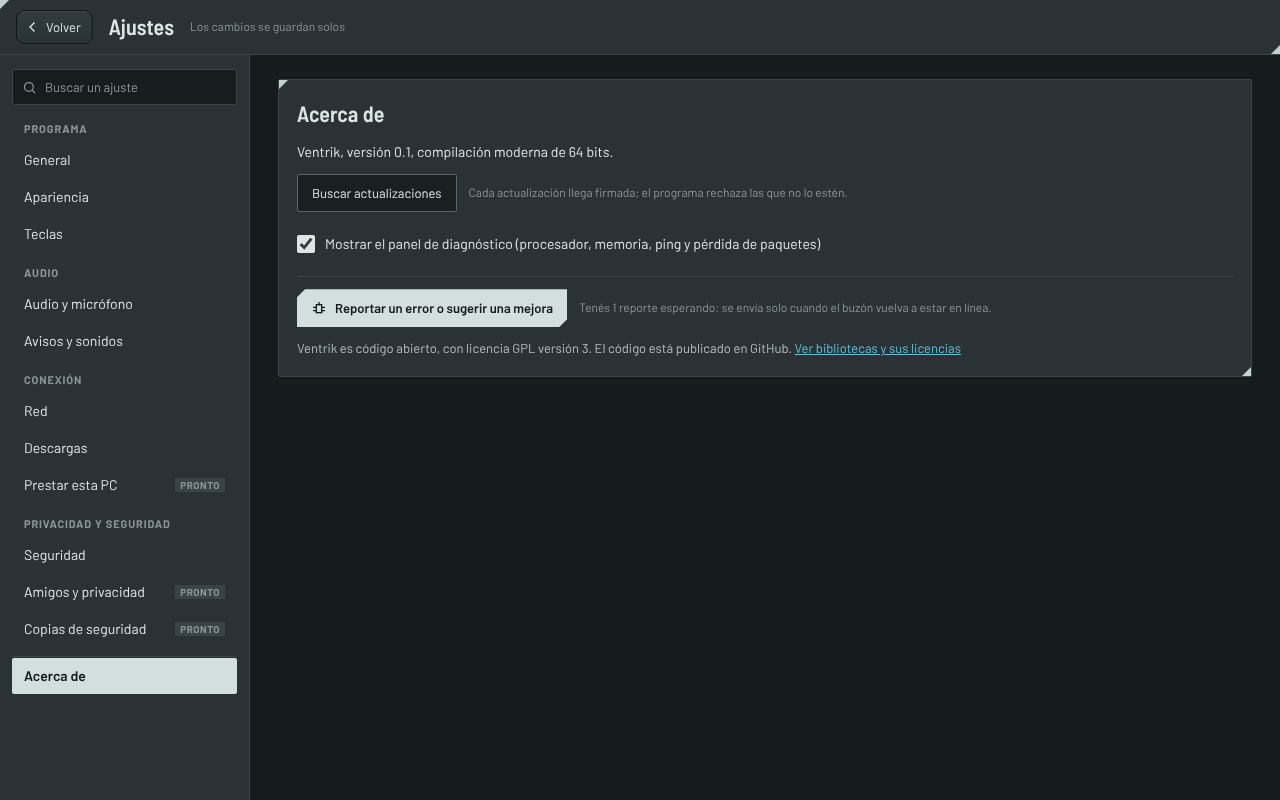
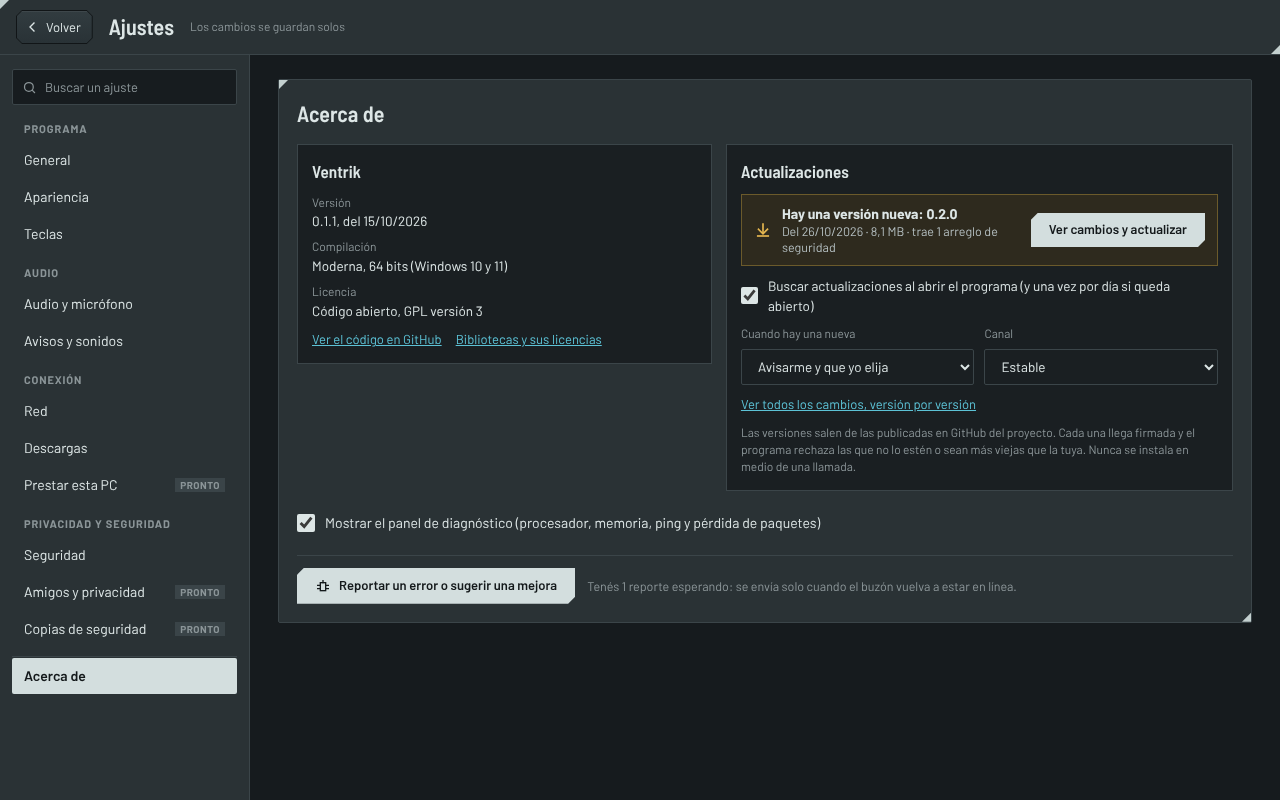
Diseño: actualizaciones desde GitHub, con lista de cambios
Diseño del dueño para la etapa 11: un manifiesto firmado en cada versión
publicada en GitHub (estable y pruebas), con los cambios armados desde
CHANGELOG.md, la ventana de la versión nueva, instalar sin cortar
llamadas y volver atrás sola si la nueva no arranca. Firma con ECDSA
P-256 de Mbed TLS (decisión del dueño). Capturas nuevas de
Actualizaciones, Acerca de y el pie de Inicio.

diff --git a/docs/diseno.md b/docs/diseno.md
@@ -690,8 +690,74 @@ C++ no protege la memoria por sí solo, así que las reglas de escritura y las p
 - **Revisión automática:** las advertencias del compilador se tratan como errores en el código propio (las bibliotecas de terceros se compilan tal como vienen, sin modificarlas), y se usa análisis estático (`/analyze`, clang-tidy).
 - **Fuzzing:** un programa le tira millones de paquetes y archivos rotos al código hasta encontrar dónde falla. Corre en una compilación de prueba con AddressSanitizer, que detecta cada error de memoria en el momento.
 - **Protecciones del compilador:** `/GS`, `/NXCOMPAT`, `/DYNAMICBASE`, `/guard:cf` y `/SAFESEH`. /SAFESEH existe solo en 32 bits, así que va únicamente en la versión clásica. XP SP3 aprovecha /GS, /SAFESEH y DEP, que la versión clásica activa al arrancar con SetProcessDEPPolicy para no depender de la configuración de Windows. XP no tiene ASLR, que llegó con Vista, ni CFG, que llegó con Windows 8.1. Por eso hay una versión moderna aparte (ver "Tecnología elegida").
-- **Actualizaciones firmadas:** cada actualización va firmada, y el programa trae la clave pública adentro y rechaza lo que no esté firmado. Firmar el .exe para Windows (Authenticode) suele requerir un certificado pago; como el proyecto es de código abierto, se puede pedir gratis a [SignPath Foundation](https://signpath.org/) (ver "Viabilidad como programa gratuito").
+- **Actualizaciones firmadas:** cada actualización va firmada, y el programa trae la clave pública adentro y rechaza lo que no esté firmado. Firmar el .exe para Windows (Authenticode) suele requerir un certificado pago; como el proyecto es de código abierto, se puede pedir gratis a [SignPath Foundation](https://signpath.org/) (ver "Viabilidad como programa gratuito"). Cómo se buscan, se muestran y se instalan: "Actualizaciones firmadas" más abajo.
 - **Bibliotecas:** versiones fijas, seguimiento de avisos de seguridad y actualización rápida. Las de imágenes ya tuvieron fallas graves: libwebp, una usada en ataques reales en 2023 ([CVE-2023-4863](https://db.gcve.eu/cve/CVE-2023-4863)), y stb\_image, varias al leer GIF ([CVE-2023-45661](https://ubuntu.com/security/CVE-2023-45661)).
+
+### Actualizaciones firmadas
+
+Diseño del dueño del 2026-10-26, para la etapa 11. Capturas: docs/pantallas/Actualizaciones*.png, Ajustes-acerca.png, Ajustes-acerca-al-dia.png, Inicio-actualizacion.png e InicioVisual-actualizacion.png (en Inicio.png e InicioVisual.png solo cambia el pie).
+
+- **De dónde saca las versiones:**
+  - **Nada de la API de GitHub para revisar:** sin cuenta, api.github.com deja 60 pedidos por hora por IP, y con CGNAT muchos usuarios comparten una IP.
+  - **Un manifiesto firmado,** subido como archivo de cada versión publicada en GitHub:
+    - estable: `https://github.com/<dueño>/<repo>/releases/latest/download/manifest.json` ("latest" es la última publicada que no es borrador ni pre-release);
+    - pruebas: `https://github.com/<dueño>/<repo>/releases/download/canal-pruebas/manifest.json` (`canal-pruebas` es un pre-release fijo; cada versión de prueba reemplaza su manifiesto).
+  - **Redirecciones:** GitHub responde 302 hacia su dominio de descargas; el programa las sigue.
+  - **XP:** GitHub pide TLS 1.2 o más nuevo, que XP no trae. La clásica usa Mbed TLS, que ya está en el proyecto y trae TLS 1.2. Lo que falta es la lista de autoridades raíz dentro del programa, que también pide la etapa 14 para hablar con Google: queda pendiente para esa etapa.
+- **El manifiesto:**
+  - **Firma:** con la llave del proyecto, en **ECDSA P-256 con Mbed TLS**; la clave pública viene adentro del programa. El diseño del dueño pedía Ed25519, pero Mbed TLS no lo trae y el proyecto usa solo Mbed TLS para el cifrado: sumar otra biblioteca necesita su permiso. Es la misma curva que la firma de llaves de seguridad.
+  - **Se descarta** si la firma no vale, si la versión es más vieja que la instalada (nadie te puede hacer bajar de versión) o si la fecha es más vieja que la del último manifiesto aceptado.
+  - **Campos:**
+    - versión y fecha;
+    - por compilación (moderna de 64 bits y clásica de 32 bits): dirección del archivo, tamaño y SHA-256;
+    - `seguridad`: si trae algún arreglo de seguridad;
+    - `minima`: la versión más vieja que todavía puede conectarse a servidores de esta versión;
+    - `ultima_para_xp`: si existe, la clásica se queda en esa versión y deja de ofrecer las siguientes;
+    - `destacados`: de 2 a 4 frases cortas para "Novedades";
+    - `cambios`: los de esta versión y las anteriores (por lo menos las últimas 20), cada una con su versión y fecha.
+  - **Los cambios van en categorías fijas:** Seguridad, Nuevo, Arreglos, Cambios y Quitado. Escritos para el usuario: sin nombres de funciones ni de archivos.
+  - **Salen de CHANGELOG.md,** una sección por versión con esas categorías. El script de publicación arma desde ahí el texto de la versión en GitHub y el campo `cambios`, y firma el manifiesto.
+  - **El programa muestra siempre los cambios del manifiesto firmado,** nunca la página de GitHub.
+- **Cuándo revisa:**
+  - al abrir el programa, después de que aparece la ventana, sin demorar el arranque;
+  - si queda abierto, una vez cada 24 horas (un temporizador más, que se justifica en docs/estado.md al programarlo);
+  - a mano, con "Buscar actualizaciones" en Ajustes → Acerca de;
+  - sin conexión: 10 segundos de límite y ningún error a la vista; el pie de Inicio dice "No se pudo revisar";
+  - se apaga con "Buscar actualizaciones al abrir el programa" (activado de entrada);
+  - privacidad: GitHub ve la IP y la versión, nada más; no se manda ninguna identificación. La ayuda lo aclara.
+- **Qué ve el usuario:**
+  - **Ajustes → Acerca de** (Ajustes-acerca.png y -al-dia.png): el aviso de la versión nueva o "Estás al día · revisado hoy a las 23:10" con "Buscar actualizaciones"; "Buscar al abrir"; "Cuando hay una nueva" (Avisarme y que yo elija / Instalarla al cerrar el programa / Solo los arreglos de seguridad, sin preguntar); Canal (Estable / Pruebas); "Ver todos los cambios".
+  - **El pie de Inicio** (Inicio-actualizacion.png e InicioVisual-actualizacion.png): "Versión 0.2.0 disponible · Ver cambios" en amarillo, que abre la ventana de la actualización.
+  - **La ventana de la versión nueva** (Actualizaciones.png): los cambios por categoría, las versiones que te saltaste ("También trae la 0.1.2"), "Ver en GitHub" y Actualizar ahora / Al cerrar el programa / Más tarde.
+    - En un canal de voz (Actualizaciones-en-llamada.png), el botón principal pasa a "Actualizar al salir del canal": nunca se corta una llamada.
+    - Bajando (Actualizaciones-bajando.png): barra, pasos (versión, bajada, firma y huella, reinicio) y "Seguir en segundo plano".
+    - Al volver a abrirse (Actualizaciones-novedades.png): "Novedades de la 0.2.0", con los `destacados`. Se puede apagar.
+    - Firma inválida (Actualizaciones-error.png): se borra el archivo y se sigue con la versión actual.
+  - **Cuándo se abre sola:** con "Avisarme", una vez por versión, al encontrarla; si trae un arreglo de seguridad, en cada arranque hasta que se instale; si no, quedan el pie de Inicio y Acerca de.
+  - **Debajo de la `minima`:** la ventana no tiene "Más tarde", y explica que los servidores nuevos no la van a aceptar; con servidores viejos se sigue usando. El rechazo ya existe hoy en la negociación del protocolo (un programa viejo recibe "versión vieja", ver "Dos versiones que se entienden"); en la etapa 11 suma el botón que abre la ventana de la actualización ("Actualizá Ventrik para entrar").
+- **Cómo se instala:**
+  1. Baja la compilación de esa PC (moderna o clásica) a una carpeta temporal del programa, en segundo plano, con prioridad baja y tope de velocidad (docs/optimizacion.md).
+  2. Comprueba el SHA-256 del manifiesto firmado; si no coincide, borra el archivo y muestra el error. El .exe además tiene que traer la firma Authenticode del proyecto (SignPath).
+  3. Espera el momento: nunca en medio de una llamada ni de una transferencia de archivos.
+  4. **El ayudante** hace el reemplazo: Ventrik se cierra, el ayudante espera a que termine el proceso, guarda la versión actual en `anterior\`, pone la nueva y la abre con `--recien-actualizado`. Vuelve a comprobar la firma él mismo, sin confiar en lo que le pasa el programa. Para cumplir "un solo .exe", el ayudante es el mismo ventrik.exe copiado a la carpeta temporal y abierto con `--actualizar`, no un `ventrik-actualizar.exe` aparte.
+  5. **Vuelta atrás automática:** si la versión nueva no avisa "arranqué bien" (ventana principal abierta y configuración leída) en 60 segundos, o se cierra con error dos veces seguidas, el ayudante restaura `anterior\` y muestra por qué.
+  6. Al volver a abrirse, entra solo al servidor donde estaba y muestra las Novedades.
+  7. **Permisos de Windows:** en una carpeta del usuario no hace falta pedir permiso; en "Archivos de programa", pide permiso (UAC) solo para el reemplazo. **Hoy no hay instalador:** el .exe se copia a mano (por ejemplo, `build\para_xp`) y los datos van en %APPDATA%\Ventrik. Los instaladores llegan en la etapa 11; la propuesta es que instalen en una carpeta del usuario, así actualizar no pide permiso (lo decide el dueño en esa etapa).
+  8. **La configuración, los chats y los datos locales no se tocan.** Si una versión cambia el formato de la base, la migración hace una copia antes y la vuelta atrás la restaura.
+- **El servidor y las PCs de nodos:**
+  - el programa del servidor revisa igual, al arrancar y una vez por día;
+  - el admin elige en Configuración del servidor: avisarme, instalar cuando no haya nadie conectado o instalar en un horario;
+  - con varias PCs (nodos, etapa 13), se actualizan de a una: cada nodo vuelve a entrar y recién ahí sigue el siguiente, así el servidor nunca se cae entero;
+  - un cliente y un servidor de versiones distintas se entienden mientras los dos estén por encima de la `minima` del otro;
+  - a un cliente demasiado viejo el servidor le responde "Actualizá Ventrik para entrar", con un botón que abre la ventana de actualización.
+- **Pruebas:**
+  - manifiestos rechazados: firma alterada, versión más vieja que la instalada y fecha anterior a la última aceptada;
+  - un archivo con un byte cambiado se rechaza y se borra; una descarga cortada se retoma o se reinicia, nunca se instala incompleta;
+  - una versión que se cierra al arrancar vuelve sola a la anterior, con los datos intactos;
+  - en un canal de voz, "Actualizar ahora" espera a que salgas;
+  - sin conexión, el programa arranca igual de rápido y sin errores;
+  - en XP, la clásica baja e instala desde GitHub (TLS 1.2 con Mbed TLS);
+  - con nodos (etapa 13), la actualización de a una no corta a nadie.
 
 ### Capas extra y niveles de seguridad
 

diff --git a/docs/plan.md b/docs/plan.md
@@ -114,7 +114,7 @@ Cada una empieza en una sesión nueva: se divide en pasos chicos, cada uno con s
 | 8. Servidores grandes | Simulador de 512 usuarios; tope de voces; calidad dinámica; capacidad estimada; canal escenario; modo canal grande; chat lento; reconexiones escalonadas; la subida del servidor repartida en un solo lugar por prioridades (primero la voz) | Hostear, paso 3 (Capacidad y voz) | El informe del simulador muestra cómo baja la calidad con poca subida |
 | 9. Moderación | Roles y permisos por rol y canal (también para susurrar); baneos con huella del equipo; barreras de entrada; el permiso "Compartir pantalla" en la lista, apagado y "en desarrollo" | Panel de administración | Banear una prueba y ver que vuelve silenciada |
 | 10. Modo Visual (delicada) | Perfiles y tarjeta con fondo animado, efecto por fuera y animación al abrirse; marcos de avatar y editor de efectos con su código para compartir (validado y con fuzzing); Inicio en Visual; personalización (icono animado, fondo del chat, color del tema), GIFs y stickers; imágenes en el proceso de medios (proceso aparte, con fuzzing, listo para sumarle video); captura en los reportes; en el panel de audio, el medidor con divisiones (con la marca por voz), hasta 30 imágenes por segundo (en Rendimiento queda la barra fija) | Visual, Inicio en Visual, Perfil, Editor de efectos, Personalizar servidor | Cambiar de modo y ver que en Rendimiento no se descarga nada |
-| 11. Cierre | Modo servidor limitado; idiomas; el resto de Ajustes; instaladores con ClamAV; firma con SignPath; actualizaciones firmadas; pruebas de 8 horas | Ajustes (general, apariencia, descargas, red, acerca de) | Instalar desde cero en XP, en la netbook y en Windows 11 |
+| 11. Cierre | Modo servidor limitado; idiomas; el resto de Ajustes; instaladores con ClamAV; firma con SignPath; actualizaciones firmadas desde GitHub (docs/diseno.md, "Actualizaciones firmadas"): CHANGELOG.md y el script de publicación que arma el texto de la versión y el manifiesto firmado (ECDSA P-256), canales Estable y Pruebas, revisar al abrir y cada 24 horas, la ventana de la versión nueva y las Novedades, bajar en segundo plano, instalar sin cortar llamadas con el ayudante (el mismo .exe con `--actualizar`) y la vuelta atrás automática, el servidor que se actualiza solo (los nodos, con la etapa 13), y la lista de autoridades raíz para TLS en XP si no llegó antes; pruebas de 8 horas | Ajustes (general, apariencia, descargas, red, acerca de, con las actualizaciones); Actualizaciones*.png y el pie de Inicio | Instalar desde cero en XP, en la netbook y en Windows 11; una versión de prueba publicada que se instala sola en XP y en Windows 10, y una rota que vuelve sola a la anterior |
 | 12a. Compartir pantalla (delicada) | VP8 con libvpx en todos los equipos, incluido XP (libvpx entra a third_party/); captura con DXGI desde Windows 8 y GDI en XP y 7, solo lo que cambió y el cursor aparte; reenvío sin recomprimir, solo a quien mira; copia chica y ajuste a la conexión; topes y opciones de Hostear; descompresor en el proceso de medios con fuzzing; "No mirar pantallas en esta PC" | Compartir pantalla; Hostear, paso 6 (Pantallas compartidas) | Medir como en la etapa 1: la HP 2133 compartiendo y mirando |
 | 12b. Pantalla en alta calidad | Copia H.264 por la placa de video con Media Foundation (desde Windows 7); cuadros en capas para bajar de 60 a 30 sin recomprimir; repetidor opcional | Las mismas | Una PC moderna compartiendo en 1080p y 1440p a 60 cuadros |
 | 14a. Amigos y llamadas de a dos (delicada) | ID (la identidad de siempre, con parte antispam y código corto) y solicitudes; red repartida (DHT) para encontrarse sin servidor; conexión directa (UDP hole punching) o por otro participante o el relay; cifrado de punta a punta con MLS (antes, verificar una implementación que compile para XP); chat de a dos con mensajes que esperan al otro; archivos en partes; llamadas de voz de a dos; base local; copias cifradas en Google Drive desde el servicio de Windows y Recuperar. No depende de las etapas 12 y 13 | Inicio → Amigos; Agregar amigo; Llamada entrante; Ajustes → Amigos y privacidad; Ajustes → Copias de seguridad; Recuperar | Dos PCs detrás de módems distintos y una con CGNAT; con el directorio apagado se siguen encontrando; un extraño con tu ID no ve si estás conectado ni tu IP; mensaje y archivo a un amigo desconectado; formatear y recuperar desde Drive en Windows 10 y en XP, con una contraseña equivocada que falla sin romper nada |

diff --git a/docs/estado.md b/docs/estado.md
@@ -210,6 +210,14 @@ Para retomar sin perder contexto (se carga desde CLAUDE.md). Actualizar al cerra
     - si las builds de Windows 10 anteriores a 1809 aceptan la registración por registro;
     - el Asistente de concentración de Windows 10;
     - si wpndatabase.db queda sin cifrar.
+- **Diseño actualizado (2026-10-26): actualizaciones desde GitHub, con lista de cambios (etapa 11, no es para la etapa en curso).** En docs/diseno.md, "Actualizaciones firmadas"; las tareas, en la etapa 11 de docs/plan.md.
+  - **Qué es:** un manifiesto firmado en cada versión publicada en GitHub (estable y pruebas), con los cambios por categoría armados desde CHANGELOG.md; revisar al abrir y cada 24 horas sin la API de GitHub; la ventana de la versión nueva, las Novedades y el pie de Inicio; instalar sin cortar llamadas, con un ayudante y vuelta atrás automática; el servidor también se actualiza.
+  - **Capturas:** entraron Actualizaciones.png, -bajando, -en-llamada, -error y -novedades, Ajustes-acerca-al-dia.png, Inicio-actualizacion.png e InicioVisual-actualizacion.png; se reemplazaron Ajustes-acerca.png, Inicio.png e InicioVisual.png (solo cambia el pie).
+  - **Ajustado a lo decidido acá:**
+    - la firma va en ECDSA P-256 con Mbed TLS y no en Ed25519 (Mbed TLS no lo trae; otra biblioteca necesita el permiso del dueño);
+    - el ayudante es el mismo ventrik.exe abierto con `--actualizar`, por la regla de un solo .exe;
+    - TLS 1.2 en XP ya está (Mbed TLS); falta la lista de autoridades raíz, pendiente junto con la de la etapa 14;
+    - hoy no hay instalador (el .exe se copia a mano): la carpeta de instalación se decide en la etapa 11, con la propuesta de una carpeta del usuario para que actualizar no pida permiso.
 - **Etapa 3, paso 3.2a: varias voces a la vez (hecho, 2026-10-26).** El programa mezcla hasta 4 voces (`kVoces`, puente_voz.h), las más fuertes.
   - **Protocolo:** `Medio` suma `u16 tiempo` (milisegundos del reloj de audio del que habla: cuenta todo lo que entra del micrófono, también sin transmitir, para que en el paso 3.2c una pausa no parezca una traba de la red) y `u8 nivel` (dB sobre −127 dBov, de 0 a 127; el lector rechaza más). Primero cambió en el lugar, en el protocolo 2. Pero con eso, un servidor de antes (el de prueba de la PC había quedado del 25) aceptaba la conexión y tiraba toda la voz sin avisar: el dueño no se oía en ninguna punta. Por eso sube al **protocolo 3** (programa 0.3.0): un servidor o un programa de antes ahora rechaza la conexión con "versión vieja". Regla desde ahora: cada cambio de formato de un mensaje sube el protocolo.
   - **Lugares:** cada voz tiene su decodificador (los 4 en un solo bloque con `opus_decoder_init`, para fijarlo en RAM de una vez), su colchón y su PCM.
